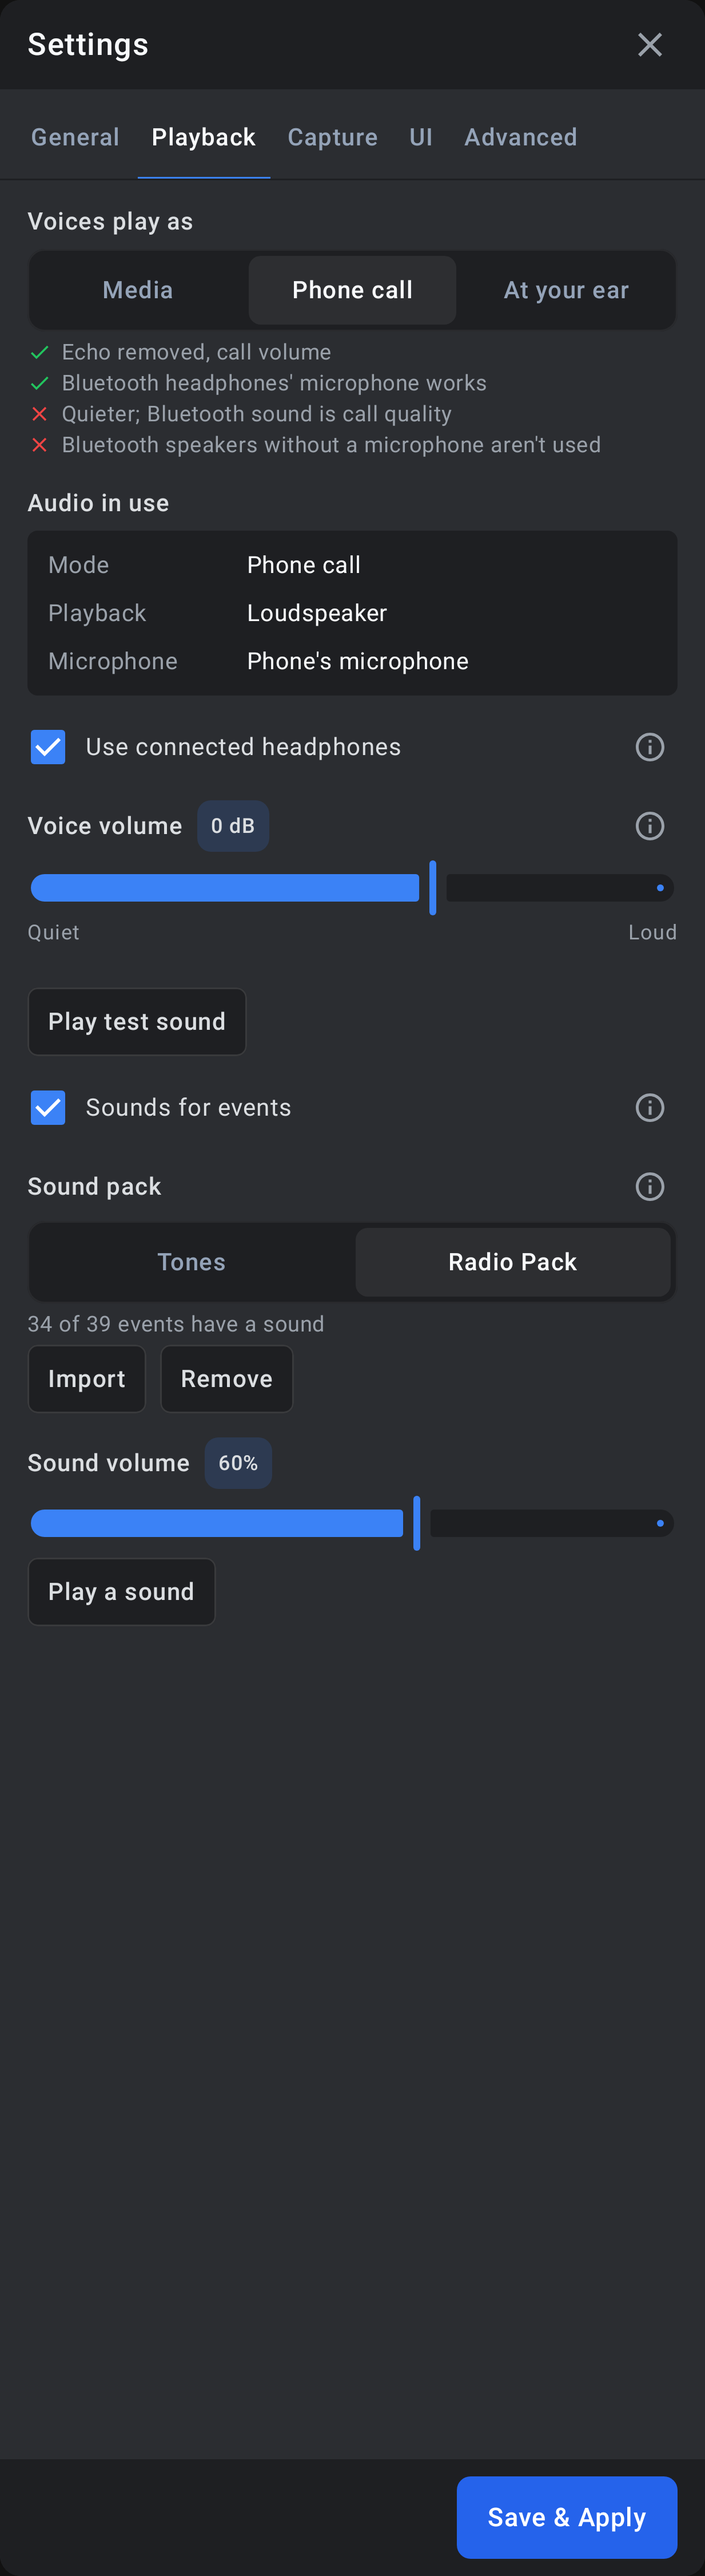
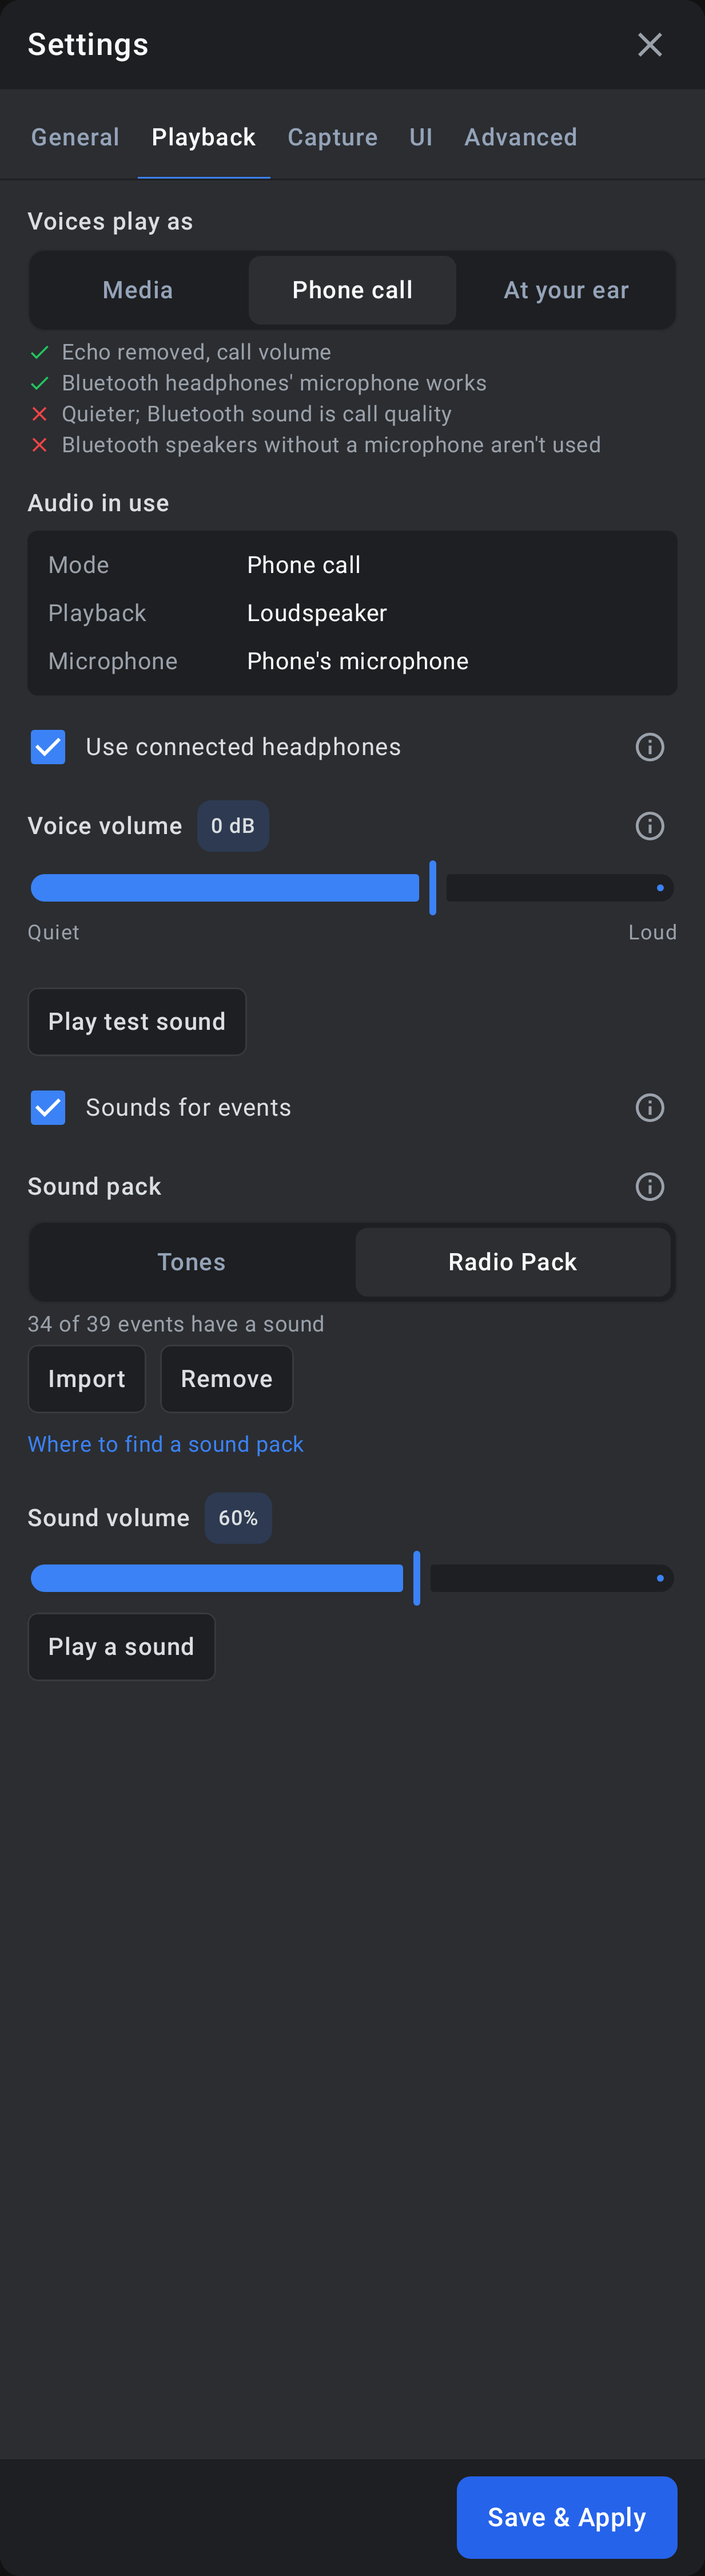
Sound packs: .ts3_soundpack files, and a guide
The file choice takes any file, so a .ts3_soundpack (a zip under another name, as community packs are shared)
imports as it is. "Where to find a sound pack" under the sound pack opens docs/SOUND_PACKS.md: where a
TeamSpeak 6 or 3 installation keeps its packs and how to bring one to the phone, how to quiet an event, and
which file or settings key plays for each event (the table follows SoundPackFiles).

Changed region(s): [[0.0308, 0.56, 0.6164, 0.6533]]

diff --git a/app/src/main/kotlin/io/github/korppujauho/pocketts/ui/SettingsDialog.kt b/app/src/main/kotlin/io/github/korppujauho/pocketts/ui/SettingsDialog.kt
@@ -661,6 +661,8 @@ private fun Playback(v: VoiceSettings, saved: VoiceSettings, actions: SettingsAc
  * sound for, and Import (a folder or a .zip) and Remove. Importing chooses the pack; it takes effect with Save & Apply,
  * as the rest.
  */
+private const val SOUND_PACK_GUIDE = "https://github.com/KorppuJauho/pocketts/blob/main/docs/SOUND_PACKS.md"
+
 @Composable
 private fun SoundPackGroup(v: VoiceSettings, actions: SettingsActions, onChange: (VoiceSettings) -> Unit) {
     var pack by remember { mutableStateOf(actions.soundPack()) }
@@ -700,6 +702,12 @@ private fun SoundPackGroup(v: VoiceSettings, actions: SettingsActions, onChange:
             }
         }
         status?.let { Desc(it) }
+        // Where packs are, and how events are named: a page in the project, opened in the browser
+        val uri = androidx.compose.ui.platform.LocalUriHandler.current
+        Text(
+            stringResource(R.string.sound_pack_guide), color = Ts.accent, fontSize = 12.5.sp,
+            modifier = Modifier.clickable { uri.openUri(SOUND_PACK_GUIDE) }.padding(vertical = 2.dp),
+        )
     }
     if (choosing) {
         TsDialog(
@@ -714,7 +722,8 @@ private fun SoundPackGroup(v: VoiceSettings, actions: SettingsActions, onChange:
             }
             PillButton(stringResource(R.string.sound_pack_zip), modifier = Modifier.fillMaxWidth()) {
                 choosing = false
-                pickZip.launch(arrayOf("application/zip", "application/x-zip-compressed", "application/octet-stream"))
+                // Any file: a .ts3_soundpack (a zip under another name) has no type Android knows
+                pickZip.launch(arrayOf("*/*"))
             }
         }
     }

diff --git a/app/src/test/kotlin/io/github/korppujauho/pocketts/SoundPackTest.kt b/app/src/test/kotlin/io/github/korppujauho/pocketts/SoundPackTest.kt
@@ -127,6 +127,27 @@ class SoundPackTest {
     }
 
     @Test
+    fun aTs3SoundpackFileIsReadAsTheZipItIs() {
+        val file = File(context.cacheDir, "radio.ts3_soundpack")
+        ZipOutputStream(file.outputStream()).use { z ->
+            for ((name, text) in listOf(
+                "package.ini" to "Name = Radio Pack\nType = Sound\n",
+                "sound/radio/settings.ini" to "[info]\nname = Radio Pack\n[sounds]\nCONNECTION_CONNECTED = play(\"on.wav\")\nOTHER_RECEIVED_POKE = play(\"beep.wav\")\n",
+                "sound/radio/on.wav" to "x",
+                "sound/radio/beep.wav" to "x",
+            )) {
+                z.putNextEntry(ZipEntry(name))
+                z.write(text.toByteArray())
+                z.closeEntry()
+            }
+        }
+        val pack = SoundPack.import(context, Uri.fromFile(file), folder = false)
+        assertEquals("Radio Pack", pack.name)
+        assertEquals("on.wav", pack.files[Cue.CONNECTED])
+        assertEquals("beep.wav", pack.files[Cue.POKE])
+    }
+
+    @Test
     fun aZipWithoutEventsIsRefused() {
         val zip = File(context.cacheDir, "music.zip")
         ZipOutputStream(zip.outputStream()).use { z ->

diff --git a/docs/SOUND_PACKS.md b/docs/SOUND_PACKS.md
@@ -1,0 +1,90 @@
+# Sound packs
+
+PocketTS plays its own soft tones for events. In their place it can play a **sound pack of your own**: the kind of
+pack TeamSpeak uses, a folder of sound files. PocketTS comes with no sound pack and downloads none: you bring the
+files, and they stay on your phone.
+
+## Importing one
+
+Settings › Playback › **Sound pack** › **Import**, then choose:
+
+- **a folder**: the pack's own folder (the one with the sound files in it), or
+- **a file**: a `.zip` of that folder, or a `.ts3_soundpack` file (a zip under another name).
+
+Then switch **Tones | (the pack's name)** to the pack, and Save & Apply. Remove brings the tones back.
+
+Both kinds of pack work:
+
+- **TeamSpeak 5 and 6:** files named after events, such as `connected.wav` and `you_were_poked.wav`.
+- **TeamSpeak 3:** a `settings.ini` that says which file plays for which event, such as
+  `CONNECTION_CONNECTED = play("connected.wav")`.
+
+Sounds can be WAV, OGG, MP3, Opus, FLAC or M4A. A pack can be 20 MB at most, and one file 5 MB.
+
+## Where to find a pack
+
+- **A TeamSpeak 6 installation on a computer.** On Windows its pack is in
+  `C:\Program Files\TeamSpeak\html\client_ui\sound\default`. Zip that `default` folder, copy the zip to your phone
+  (by cable, a cloud drive or a chat with yourself), and import it.
+- **A TeamSpeak 3 installation.** Its packs are in the `sound` folder where TeamSpeak 3 is installed, and packs you
+  added are in `%APPDATA%\TS3Client\sound` on Windows. Each pack is a folder of its own: zip the one you want.
+- **Community packs** made for TeamSpeak 3 are shared as `.ts3_soundpack` files, for example through myTeamSpeak's
+  add-ons. Import the file as it is.
+
+Use packs you're allowed to use, and keep their authors' terms.
+
+## Quieting an event
+
+An event without a sound in the pack is quiet. To quiet one, such as pokes, take its file out of the pack (or, in a
+TeamSpeak 3 pack, its line out of `settings.ini`) before importing.
+
+## Which file plays when
+
+PocketTS looks for each event's names in this order. An event the pack has nothing for plays a broader event's sound
+when there is one (someone banned from the server: kicked from the server, then disconnected), except where a
+TeamSpeak 3 pack's `settings.ini` lists the event without a sound: then it's quiet on purpose.
+
+| Event | TeamSpeak 5/6 file (any of) | TeamSpeak 3 key (any of) |
+|---|---|---|
+| You connected | `connected` | `CONNECTION_CONNECTED` |
+| You disconnected | `disconnected` | `CONNECTION_DISCONNECTED` |
+| Your connection was lost | `connection_lost` | `CONNECTION_LOST_CONNECTION` |
+| You were kicked from the channel | `you_kicked_channel` | `YOU_WERE_KICKED_FROM_CHANNEL` |
+| You were kicked from the server | `you_kicked_server` | `YOU_WERE_KICKED_FROM_SERVER` |
+| You were banned | `you_were_banned` | `YOU_WERE_BANNED` |
+| You switched channel | `channel_switched` | `YOU_SWITCHED_CHANNEL` |
+| You were moved | `you_were_moved` | `YOU_WERE_MOVED_TO_DIFFERENT_CHANNEL` |
+| Someone joined your channel | `neutral_switched_tocurrentchannel`, `neutral_moved_tocurrentchannel`, `client_joined` | `CLIENT_SWITCHED_TO_CURRENT_CHANNEL_STAYS`, `CLIENT_SWITCHED_TO_CURRENT_CHANNEL_APPEARS`, `CLIENT_MOVED_TO_CURRENT_CHANNEL_STAYS`, `CLIENT_MOVED_TO_CURRENT_CHANNEL_APPEARS` |
+| Someone connected to your channel | `neutral_connection_connected_currentchannel` | `CLIENT_CONNECTION_CONNECTED_CURRENT_CHANNEL` |
+| Someone left your channel | `neutral_switched_awayfromcurrentchannel`, `neutral_moved_awayfromcurrentchannel`, `client_left` | `CLIENT_SWITCHED_FROM_CURRENT_CHANNEL_STAYS`, `CLIENT_SWITCHED_FROM_CURRENT_CHANNEL_DISAPPEARS`, `CLIENT_MOVED_FROM_CURRENT_CHANNEL_STAYS`, `CLIENT_MOVED_FROM_CURRENT_CHANNEL_DISAPPEARS` |
+| Someone in your channel disconnected | `neutral_connection_disconnected_currentchannel` | `CLIENT_CONNECTION_DISCONNECTED_CURRENT_CHANNEL` |
+| Someone in your channel lost the connection | `neutral_connection_connectionlost_currentchannel` | `CLIENT_CONNECTION_LOST_CONNECTION_CURRENT_CHANNEL` |
+| A message arrived | `chat_message_inbound`, `chat_inbound` | `CHAT_RECEIVED_MESSAGE_CLIENT`, `CHAT_RECEIVED_MESSAGE_CHANNEL` |
+| You sent a message | `chat_message_outbound`, `chat_outbound` | `CHAT_SENT_MESSAGE_CLIENT`, `CHAT_SENT_MESSAGE_CHANNEL` |
+| You were poked | `you_were_poked` | `OTHER_RECEIVED_POKE` |
+| Microphone off | `mic_muted` | `SOUND_CAPTURE_MUTED` |
+| Microphone on | `mic_activated` | `SOUND_CAPTURE_UNMUTED` |
+| Sound off | `sound_muted` | `SOUND_PLAYBACK_MUTED` |
+| Sound on | `sound_resumed` | `SOUND_PLAYBACK_UNMUTED` |
+| A stream started | `stream_started` | – |
+| A stream stopped | `stream_stopped` | – |
+| Someone was kicked from your channel | `neutral_kicked_channel_awayfromcurrentchannel` | `CLIENT_WAS_KICKED_FROM_CHANNEL_FROM_CURRENT_CHANNEL_STAYS`, `CLIENT_WAS_KICKED_FROM_CHANNEL_FROM_CURRENT_CHANNEL_DISAPPEARS` |
+| Someone in your channel was kicked from the server | `neutral_kicked_server_currentchannel` | `CLIENT_WAS_KICKED_FROM_SERVER_CURRENT_CHANNEL` |
+| Someone in your channel was banned | `neutral_banned_server_currentchannel` | `CLIENT_WAS_BANNED_CURRENT_CHANNEL` |
+| Someone whispers to you | `whisper_received` | `SPECIAL_WHISPER_NOTIFY` |
+| You set Away | `away_activated` | – |
+| You're back from Away | `away_deactivated` | – |
+| You were given talk power | `talkpower_granted` | `YOU_WERE_GRANTED_TALK_POWER` |
+| Your talk power was taken | `talkpower_revoked` | `YOU_WERE_REVOKED_TALK_POWER` |
+| You were put in a server group | `servergroup_assigned` | `YOU_SERVERGROUP_ADDED_BY_USER`, `YOU_SERVERGROUP_ADDED_BY_SERVER` |
+| You were taken out of a server group | `servergroup_revoked` | `YOU_SERVERGROUP_REMOVED_BY_USER`, `YOU_SERVERGROUP_REMOVED_BY_SERVER` |
+| Your channel group changed | `channelgroup_changed` | `YOU_CHANNELGROUP_CHANGED_BY_USER`, `YOU_CHANNELGROUP_CHANGED_BY_SERVER` |
+| The server refused something for want of permission | `insufficient_permissions` | `SERVER_INSUFFICIENT_PERMISSIONS` |
+| A channel was created | `channel_created` | `CHANNEL_CREATED_BY_OTHER`, `CHANNEL_CREATED_BY_YOU` |
+| A channel was deleted | `channel_deleted` | `CHANNEL_DELETED_BY_OTHER`, `CHANNEL_DELETED_BY_YOU`, `CHANNEL_DELETED_BY_SERVER` |
+| A channel was edited | `channel_edited` | `CHANNEL_EDITED_OTHER_BY_OTHER`, `CHANNEL_EDITED_OTHER_BY_YOU`, `CHANNEL_EDITED_OTHER_BY_SERVER` |
+| Your channel was edited | `your_channel_was_edited` | `CHANNEL_EDITED_CURRENT_BY_OTHER`, `CHANNEL_EDITED_CURRENT_BY_YOU` |
+| A channel was moved | `channel_moved` | `CHANNEL_MOVED_BY_OTHER`, `CHANNEL_MOVED_BY_YOU` |
+
+With the tones, whispers, Away, talk power, your groups, refusals and channel changes are quiet: they have a sound
+only in a sound pack.
